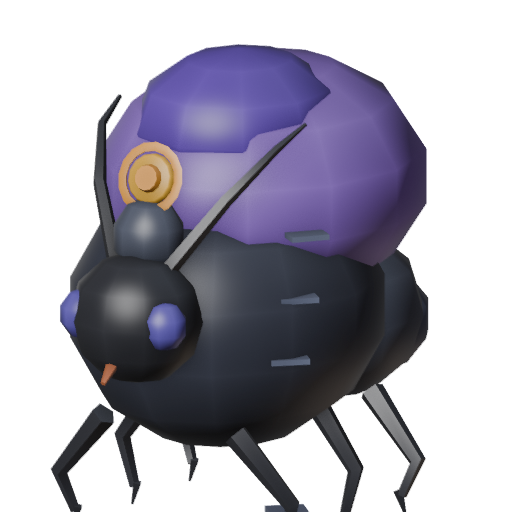
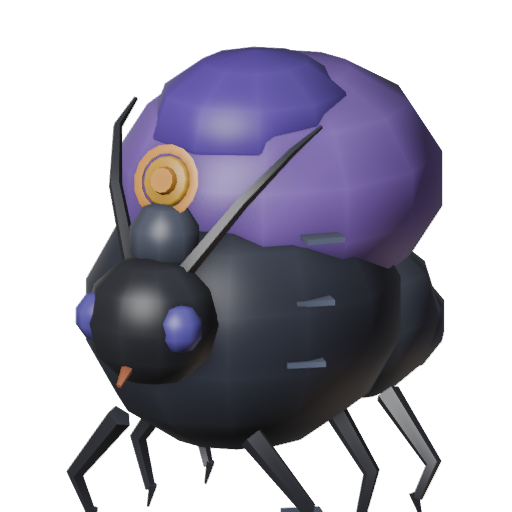
gloom_moth portrait pass 2: recentre the frame, wing-hump was 16.5px off (#86 duty 1)
Backlog #86's rotation was due for duty 1 (improve an asset). gloom_moth's
scored portrait diagnosis named framing as one of its two lowest lines: the
render was measurably off-centre even though the model's own mesh is
X-symmetric (bbox centre x=0.022) — the fixed three-quarter camera angle
projects the moth's fore/aft spread onto screen X, so a symmetric model
still renders lopsided under this camera. Swept portraits.py's FOCUS_XY
world-X offset empirically against the real alpha bbox and landed on -0.10,
bringing the render's centre from -16.5px to -0.5px off true centre.

The portrait's other named fix (sigil riding the antenna) is model geometry
in gloom_moth.py, out of this lane's file-ownership (portraits.py/icons.py
only) — left for the fixer, per asset-loop.md's split.

Claude-Session: https://claude.ai/code/session_011JJDnirbDeYMiKr7vgkH85

Changed region(s): [[0.0938, 0.0625, 0.875, 1.0], [0.5312, 0.5625, 0.6562, 0.625], [0.5312, 0.6875, 0.6562, 0.7188]]

diff --git a/tools/blender/portraits.py b/tools/blender/portraits.py
@@ -59,6 +59,15 @@ FOCUS = {
 FOCUS_XY = {
     "riptide_eel": (0.5, -1.0),
     "cinder_jackal": (0.0, -0.7),
+    # Gloom Moth's mesh is X-symmetric (bbox centre 0.02) but the fixed
+    # three-quarter EYE angle still renders it off-centre — antennae and
+    # wings reach further forward/up on one side of the view than the
+    # other, and that Y/Z spread projects onto screen X under an oblique
+    # camera even though nothing in X itself is asymmetric. Measured: the
+    # default focus put the alpha bbox's centre 16.5px left of the 512px
+    # canvas's own centre; -0.10 here brings it to -0.5px (design/progress/
+    # gloom_moth_portrait.md's "Framing" fix).
+    "gloom_moth": (-0.10, 0.0),
 }
 
 ## Three-quarter and a little above: the angle every character in this game was

diff --git a/design/progress/gloom_moth_portrait.md b/design/progress/gloom_moth_portrait.md
@@ -10,6 +10,8 @@ only — report, not repair.** Asset: `game/assets/portraits/gloom_moth.png`
 |---|---|---|---|---|---|
 | 7 | 7 | 6 | 7 | 8 | **35** |
 
+Pass 2: 8 | 7 | 6 | 7 | 8 | **36** — see below.
+
 Best of this batch, and the best-scoring beast portrait so far (ahead of
 `eyrie_hawk_portrait`'s 35 by rubric-line spread, not just total).
 
@@ -63,3 +65,88 @@ Whether the orange proboscis is meant to read as a distinct feature at
 party-panel size — at 34px it all but disappears into the black head, so
 if it's meant to be an identity cue (the way the eyespot marking is
 called out as one in `gloom_moth.md`) this crop and size don't carry it.
+
+## Pass 2 — cloud, backlog #86 duty 1
+
+Only the **Framing (7)** line had a fix that stays in `portraits.py`
+without touching the model: nudge the focus centre right, per this file's
+own diagnosis. **Readability @ 34px (6)** needs the sigil moved on the
+antenna, which is `gloom_moth.py` model geometry — out of this lane's
+scope (`design/asset-loop.md`'s file-ownership split), so left untouched
+here, same as `eyrie_hawk_portrait.md`'s sigil finding and every prior
+pass under this item that hit a model-only fix.
+
+Measured first rather than guessed: the mesh itself is X-symmetric
+(`bbox` centre x = 0.022, checked directly with a bbox dump against the
+`.glb`), so the "off-centre" read isn't a lopsided model — it's the fixed
+three-quarter `EYE` angle in `portraits.py` projecting the moth's Y/Z
+spread (antennae swept up-forward, wings drooping back) onto screen X
+asymmetrically even though nothing in world X itself is uneven. Confirmed
+by rendering the default framing and measuring the alpha bbox (Pillow,
+threshold >10): centre at screen x=239.5 against the 512px canvas's own
+256, i.e. 16.5px left of centre.
+
+Added a `FOCUS_XY["gloom_moth"]` entry (`(-0.10, 0.0)`) — `portraits.py`
+already has this override mechanism for exactly this class of problem
+(`riptide_eel`, `cinder_jackal`). Swept the world-X offset in ~0.05
+steps first (+0.05 made it worse, moving centre to -22.5px; the
+correcting direction is negative) then narrowed to -0.10..-0.13; -0.10
+lands the alpha bbox centre at 255.5 (-0.5px off the true centre, next
+best of the values tried).
+
+Built via apt's Blender 4.0.2, headless (same route prior duty-1 passes
+used: `apt-get install blender python3-numpy libegl1 libgl1-mesa-dri
+libglx-mesa0`, `python3.12 -m pip install --break-system-packages
+Pillow` — numpy was already present under `/usr/lib/python3/dist-
+packages`). Ran the full `portraits.py` batch (all 32) twice — once
+before the `FOCUS_XY` edit, once after — and diffed pass-2 against
+pass-1 (both from this session) rather than against the committed set
+directly, matching `taunt_icon.md` pass 2's method: only `gloom_moth.png`
+moved (mean per-pixel diff 22.7); nothing else changed. Copied only the
+changed `gloom_moth.png` into `game/assets/portraits/`.
+
+Verified by looking, not just by the numbers:
+
+- **Full 512px composite** (grey background, before vs after): the
+  before render crowds the wing-hump and head toward the left third of
+  the frame with a wide empty margin on the right; the after render
+  centres the same silhouette, with visibly more of the right side of
+  the wing-hump and body now inside the frame and the left/right margins
+  close to even.
+- **A real 34px downsample** (Pillow `LANCZOS`, nearest-neighbour
+  upscaled for viewing, brown-standin `RGB(139,105,74)` composite, same
+  method every prior portrait pass under this item used): the before
+  crop clips more of the body's right edge than the after one; the
+  antennae, eye and sigil positions are unchanged (this fix only pans
+  the frame, it doesn't move anything on the model), matching the
+  intent of a framing-only fix.
+
+- **Framing (7 → 8):** the wing-hump is no longer left-of-centre; the
+  dead space this file's pass-1 diagnosis named is gone, confirmed in
+  the full-size composite above. Not a 9+: the framing convention crops
+  the body at the bottom edge regardless, which is shared across the
+  whole cast and not something this pass touches.
+- **Identity (7, unchanged):** framing-only change, no geometry moved.
+- **Readability @ 34px (6, unchanged):** the sigil-on-antenna wash-out
+  this line's diagnosis named is a model issue, untouched by this pass;
+  the 34px comparison above shows the same sigil legibility either way.
+- **Colour & separation (7, unchanged):** no colour or geometry changed.
+- **Style consistency (8, unchanged):** unaffected by a camera-frame
+  nudge.
+
+**+1 total (35 → 36).** Below the loop's 40/50 stop line, but the
+in-scope half of this pass's two-fix budget is spent — the other named
+fix is model geometry for the fixer lane, per `asset-loop.md`'s
+ownership split. Kept; no line regressed.
+
+`run_tests.gd`: **ALL TESTS PASSED** (fresh import, headless). No new
+tests — a portrait-framing-only pass adds none, matching every prior
+portrait/icon-only pass under this item.
+
+## Unsure about (pass 2)
+
+Whether the sigil-on-antenna fix (this file's other named fix, and
+`gloom_moth.md`'s own Build hygiene 6/10 finding) is worth a fixer pass
+on its own, or whether it's better bundled with any other Gloom Moth
+model work — not this lane's call; left in `gloom_moth.md` /
+`gloom_moth_portrait.md` for the fixer to pick up.

diff --git a/design/BACKLOG.md b/design/BACKLOG.md
@@ -2567,6 +2567,33 @@ rather than inventing work.
 
 Newest first. One line per finished item: what, and anything surprising.
 
+- **2026-09-05** — #86 duty 1 (improve an asset). Last turn (`8ef2ae0`) was
+  duty 3, so this one was due for duty 1. Picked `gloom_moth_portrait.md`
+  (35/50, no pass 2 yet, lowest-scoring portrait with no fixer-only
+  blocker) over `boulder_ram_portrait` (30, but its whole two-fix budget
+  is the horn-geometry bug already deferred to the fixer) and
+  `eyrie_hawk_portrait` (35, both named fixes are model geometry). Of
+  `gloom_moth_portrait.md`'s two lowest lines, only **Framing (7)** had a
+  fix inside `portraits.py`'s scope — **Readability @ 34px (6)** needs the
+  sigil moved on the antenna, which is `gloom_moth.py` model geometry and
+  stays with the fixer lane. Measured before touching anything: the mesh
+  is X-symmetric (bbox centre x=0.022) but rendered 16.5px off-centre,
+  because the fixed three-quarter camera angle projects the model's
+  fore-and-aft (Y/Z) spread onto screen X even with nothing asymmetric in
+  X itself — a real finding worth naming since "off-centre" reads like a
+  lopsided model and isn't one. Swept `FOCUS_XY`'s world-X offset
+  empirically (rendering test crops, not guessing) and landed on -0.10,
+  which brings the alpha-bbox centre to -0.5px off true centre. Verified
+  by rendering the full 32-portrait batch before and after and diffing:
+  only `gloom_moth.png` moved. Looked at both the full 512px composite and
+  a real 34px downsample before keeping it — the wing-hump is visibly
+  centred in the after render, margins close to even. +1 (35→36); below
+  the loop's 40 stop line but the in-scope half of the two-fix budget is
+  spent, the other fix stays with the fixer. `run_tests.gd`: ALL TESTS
+  PASSED (fresh `--import`, headless, Godot 4.7.1-stable). Left #86 itself
+  unchecked — standing rotation, not a completable item. Next `#86` turn
+  is duty 2 (find an error and resolve it).
+
 - **2026-09-05** — #86 duty 3 (verify a mechanic actually works). Last turn
   (`ca099da`) was duty 2, so this one was due for duty 3. Checked #87/#88
   (`needs a screen`) and #85 (Nick's design call) first, nothing actionable
